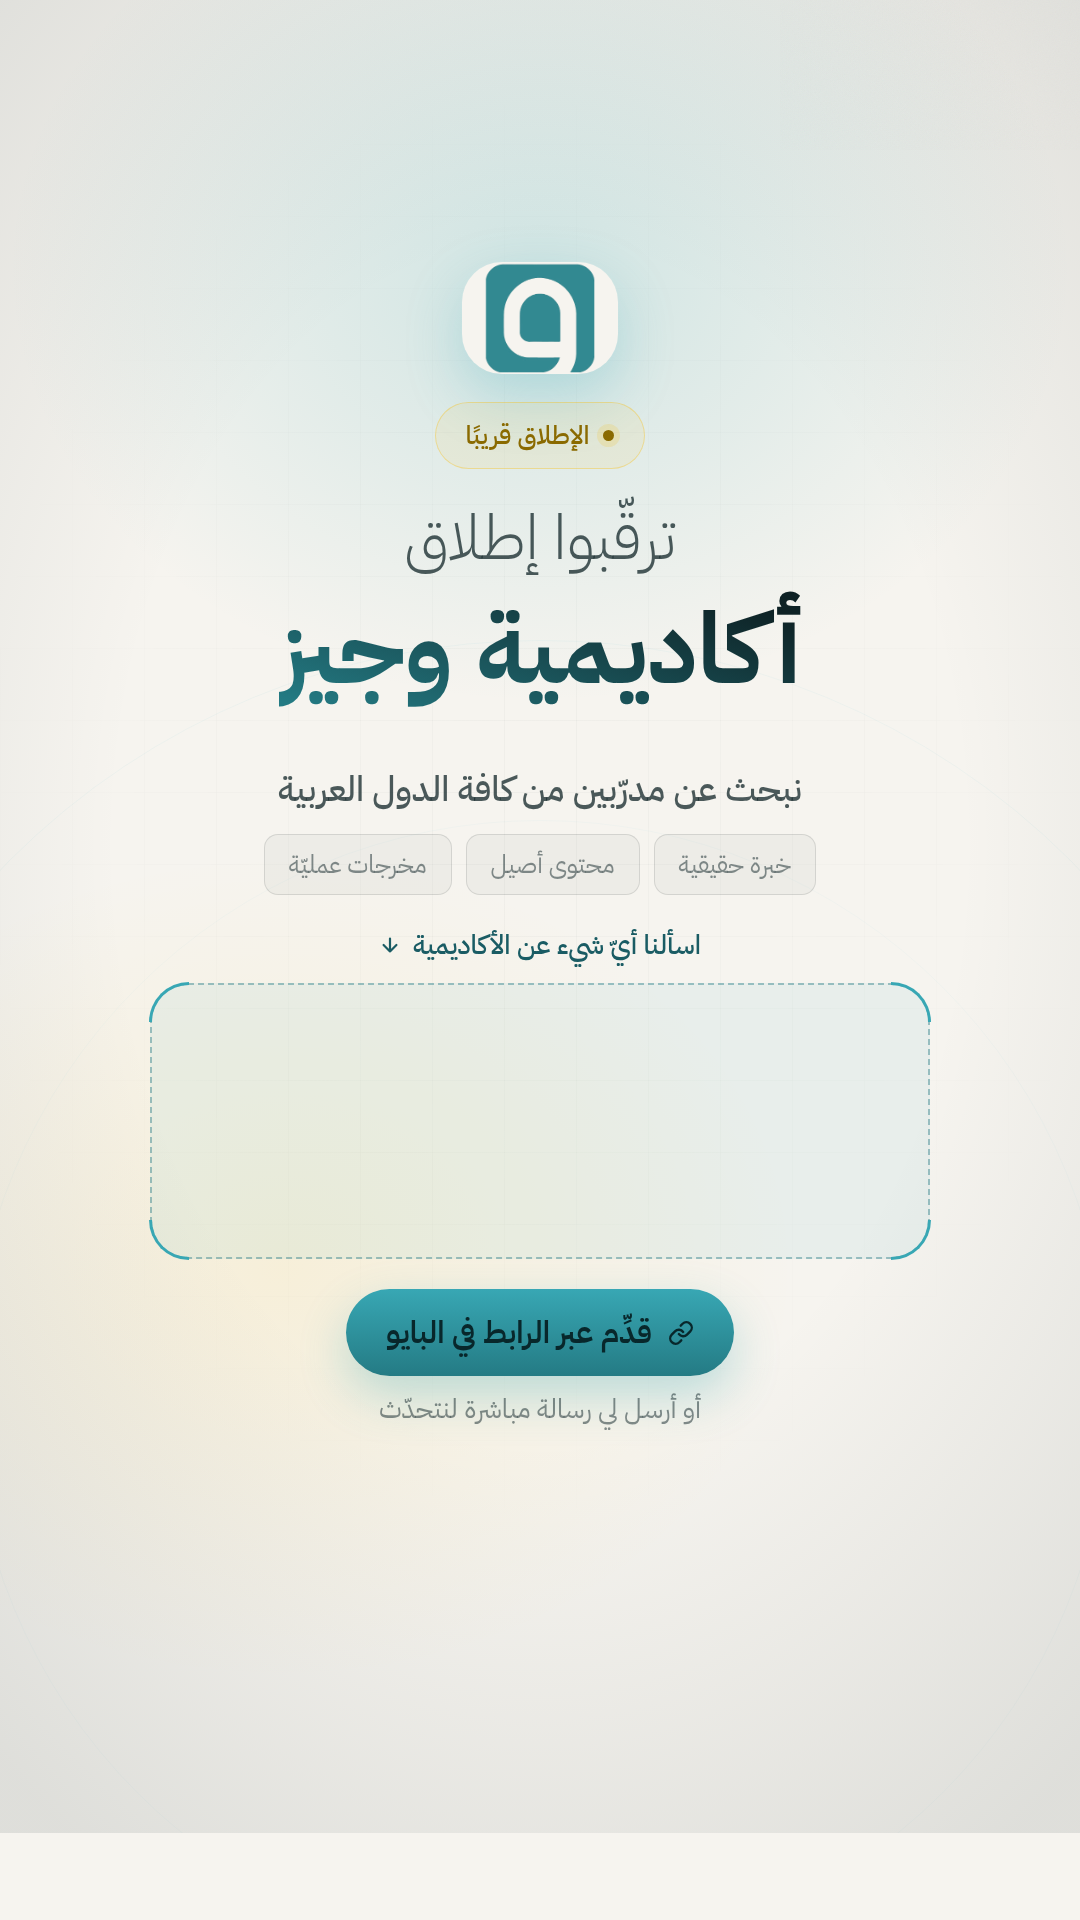
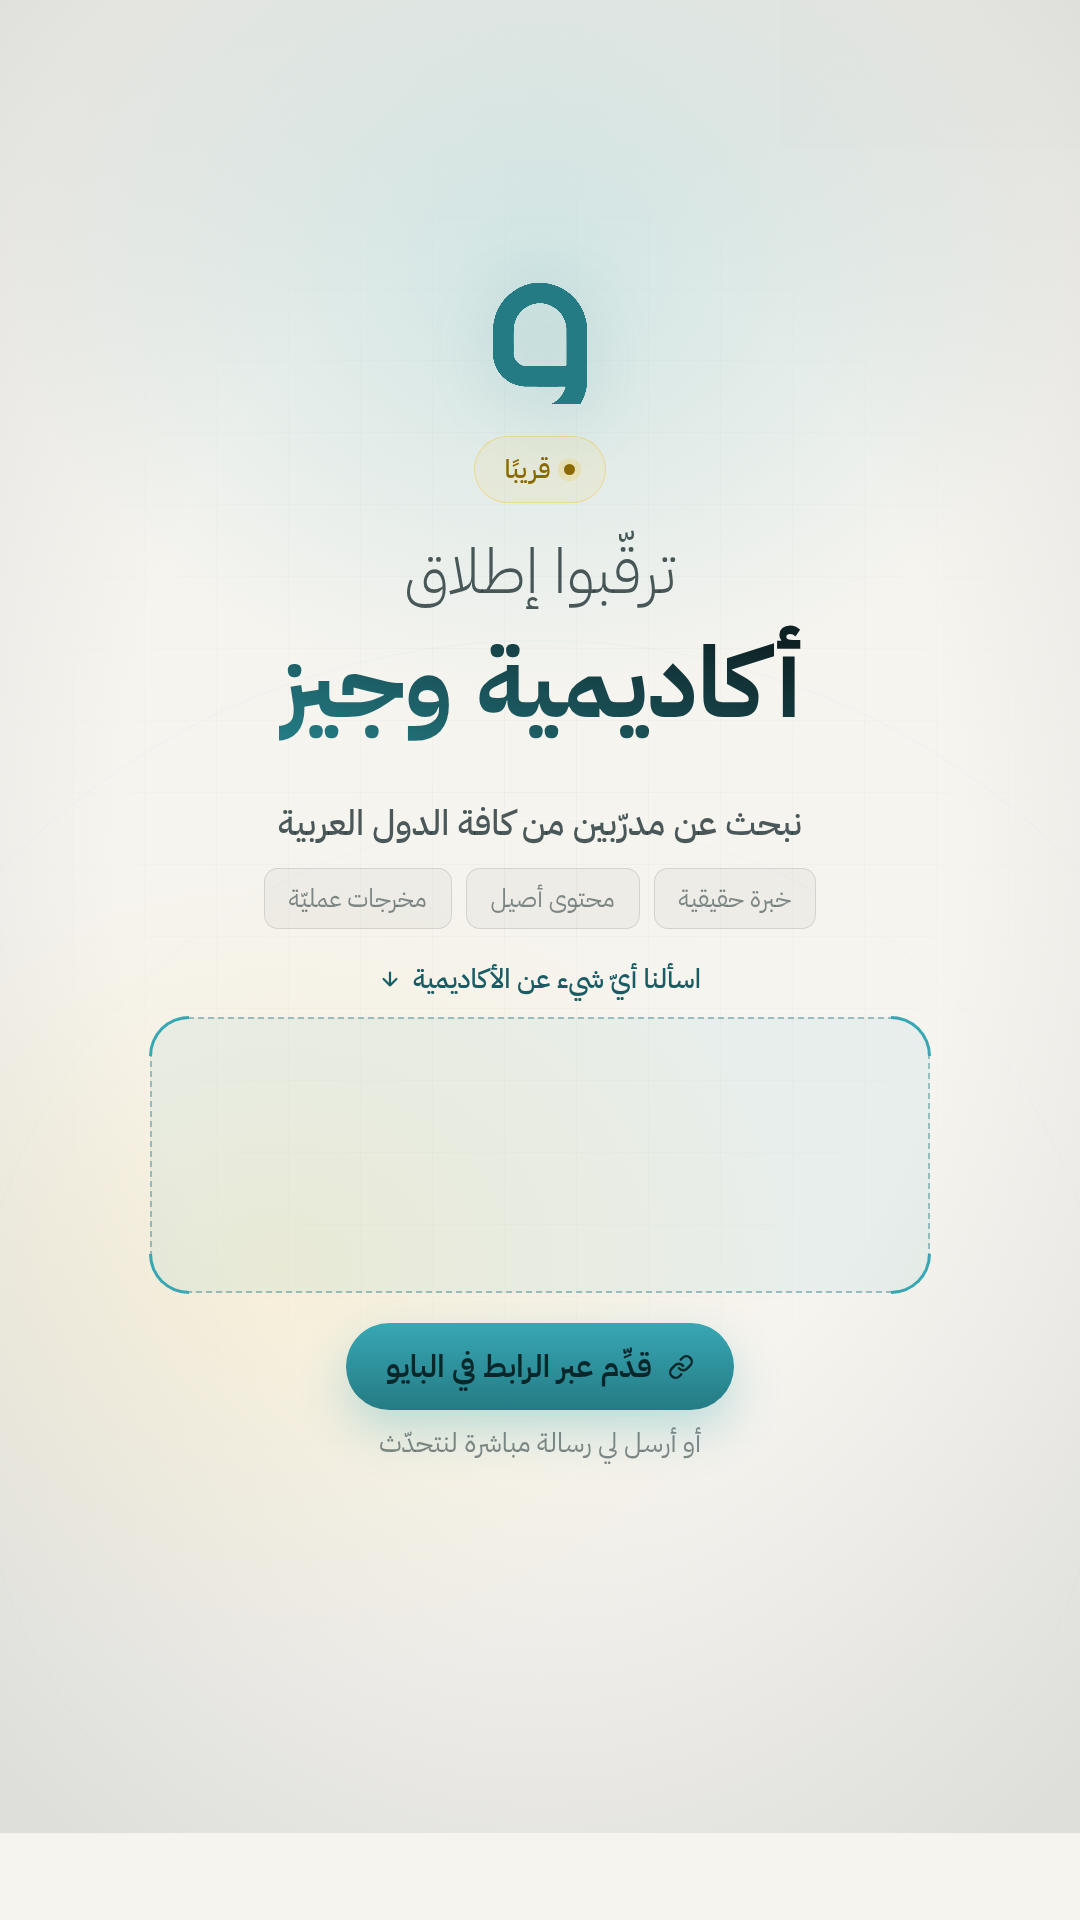
العلامةُ بلا خلفيّة، و«إطلاق» مرّةً واحدة
ملاحظتان من صاحب المنصّة على المسوّدة الأولى:

① **الخلفيّةُ تحت العلامة.** كانت تُحمل على لوحةٍ فاتحةٍ لأنّ `logo-mark.png`
   مربّعٌ فيروزيٌّ حرفُه مقطوعٌ — شفّافيّةٌ لا طباعةٌ بيضاء — فيأخذ الحرفُ
   لونَ الخلفيّة فتذوب صورتُه على الداكن. واللوحةُ تُظهره لكنّها تضع تحته
   خلفيّةً لا مكانَ لها في تصميمٍ داكن.

   فيُقلَب القناعُ بدلَها: `feFuncA` يعكس الشفافيّةَ فيصير الحرفُ هو
   المطبوعَ والمربّعُ شفّافا، ثمّ `clip-path` يقصُّ ما حول المربّع. والجدولُ
   `1 1 0 0` لا `1 0`: تعبئةُ الملفّ شفّافيّتُها ٨٩٪ لا ١٠٠٪، والقلبُ
   الخطّيُّ كان يُبقي شبحَ مربّعٍ بـ١١٪ — وهو ما يُرى في اللقطة قبل الجدول.
   فخرجت العلامةُ حرفا أبيضَ على الداكن وفيروزيّا على الفاتح، بلا صندوق.

② **«إطلاق» تكرّرت مرّتين**: في الشارة «الإطلاق قريبًا» وفي العنوان «ترقّبوا
   إطلاق». فتُركت للعنوان، وصارت الشارةُ «قريبًا».

وكبرت العلامةُ إلى ١٤٦ بكسلا بعد رفع اللوحة، وأُعيد قياسُ المنطقة الآمنة:
لا شيءَ ذو معنًى تحت ١٤٤٠ ولا فوق ٢٥٠. و`npm run verify` خضراءُ كاملةً.

Claude-Session: https://claude.ai/code/session_01TN6Y5v5SUngx2MMrNgqUBU

diff --git a/docs/brand/تصميم-ترقبوا-إطلاق-الأكاديمية.html b/docs/brand/تصميم-ترقبوا-إطلاق-الأكاديمية.html
@@ -120,13 +120,21 @@
     text-align:center;
   }
 
-  .mark-plate{
-    width:156px;height:156px;border-radius:40px;
-    background:#F6F4EF;
-    display:grid;place-items:center;
-    box-shadow:0 22px 56px rgba(56,167,180,.26), 0 0 0 1px rgba(255,255,255,.06);
-  }
-  .mark{width:112px;height:112px;display:block}
+  /* ــ العلامةُ بلا خلفيّة ــ
+
+     `logo-mark.png` مربّعٌ فيروزيٌّ **حرفُه مقطوع**: الحرفُ شفّافيّةٌ لا
+     طباعةٌ بيضاء. فحملُه على لوحةٍ بيضاءَ يُظهره، لكنّه يضع تحت العلامة
+     خلفيّةً لا مكانَ لها في تصميمٍ داكن.
+
+     فيُقلَب القناعُ بدلَ ذلك: `feFuncA` يعكس الشفافيّةَ فيصير الحرفُ هو
+     المطبوعَ والمربّعُ شفّافا، ثمّ `clip-path` يقصُّ ما حول المربّع (وقد
+     صار معتِما بالقلب). والجدولُ `1 1 0 0` لا `1 0`: تعبئةُ الملفّ
+     شفّافيّتُها ٨٩٪ لا ١٠٠٪، فالقلبُ الخطّيُّ يُبقي شبحَ مربّعٍ بـ١١٪. */
+  .mark{display:block;filter:drop-shadow(0 12px 34px rgba(56,167,180,.42))}
+  .mark img{width:146px;height:146px;display:block;
+            filter:url(#ink-on-dark);clip-path:inset(2.7% round 16%)}
+  :root[data-theme="light"] .mark{filter:drop-shadow(0 12px 30px rgba(36,123,132,.18))}
+  :root[data-theme="light"] .mark img{filter:url(#ink-on-light)}
 
   .eyebrow{
     margin-top:28px;
@@ -212,6 +220,18 @@
 </style>
 </head>
 <body>
+<svg width="0" height="0" aria-hidden="true" style="position:absolute">
+  <filter id="ink-on-dark" color-interpolation-filters="sRGB">
+    <feComponentTransfer result="INV"><feFuncA type="table" tableValues="1 1 0 0"/></feComponentTransfer>
+    <feFlood flood-color="#FFFFFF" result="F"/>
+    <feComposite in="F" in2="INV" operator="in"/>
+  </filter>
+  <filter id="ink-on-light" color-interpolation-filters="sRGB">
+    <feComponentTransfer result="INV"><feFuncA type="table" tableValues="1 1 0 0"/></feComponentTransfer>
+    <feFlood flood-color="#247B84" result="F"/>
+    <feComposite in="F" in2="INV" operator="in"/>
+  </filter>
+</svg>
 <div class="canvas">
   <div class="guides"><i class="g-top"></i><i class="g-bottom"></i><i class="g-right"></i></div>
   <div class="bg bg-glow-top"></div>
@@ -225,9 +245,9 @@
   </svg>
 
   <div class="stage">
-    <div class="mark-plate"><img class="mark" src="../../public/logo-mark.png" alt="وجيز" /></div>
+    <span class="mark"><img src="../../public/logo-mark.png" alt="وجيز" /></span>
 
-    <div class="eyebrow"><span class="dot"></span>الإطلاق قريبًا</div>
+    <div class="eyebrow"><span class="dot"></span>قريبًا</div>
 
     <h1 class="title">
       <span class="t1">ترقّبوا إطلاق</span>
